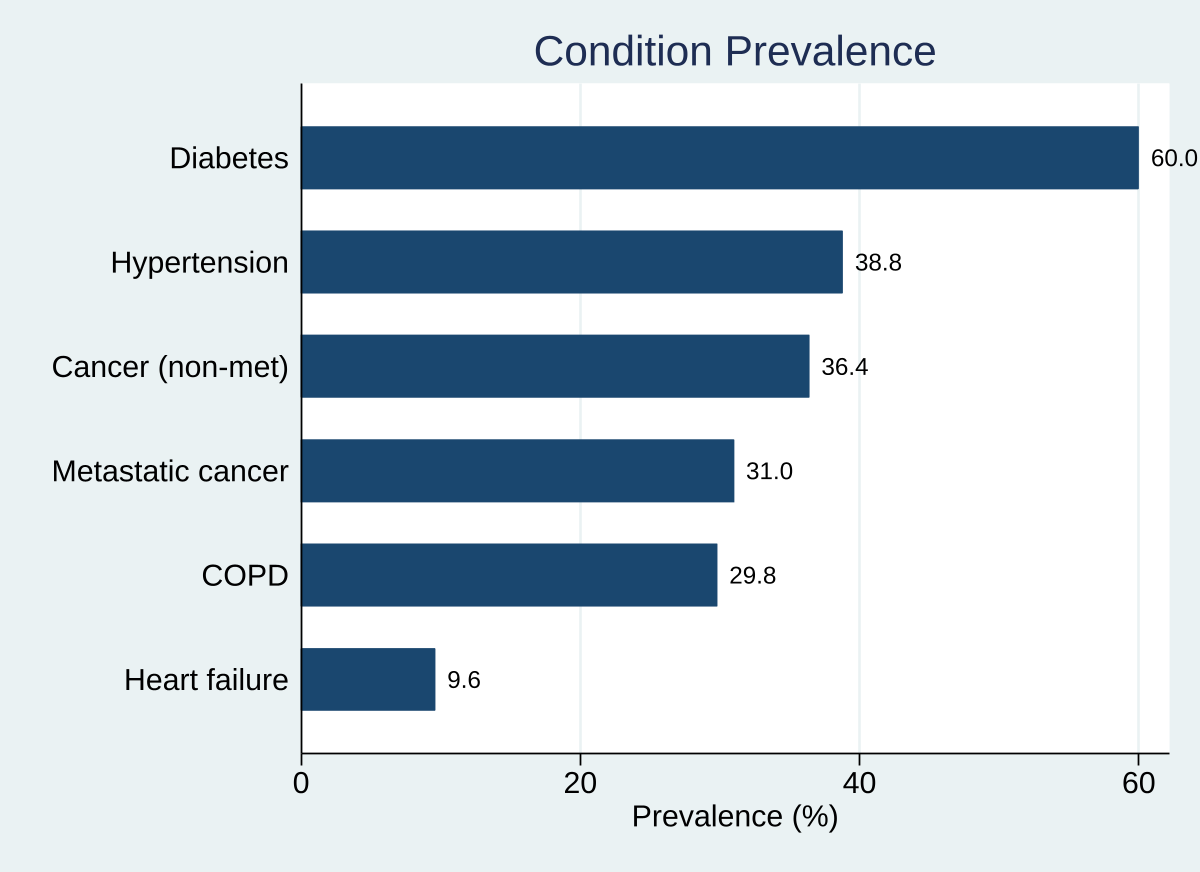
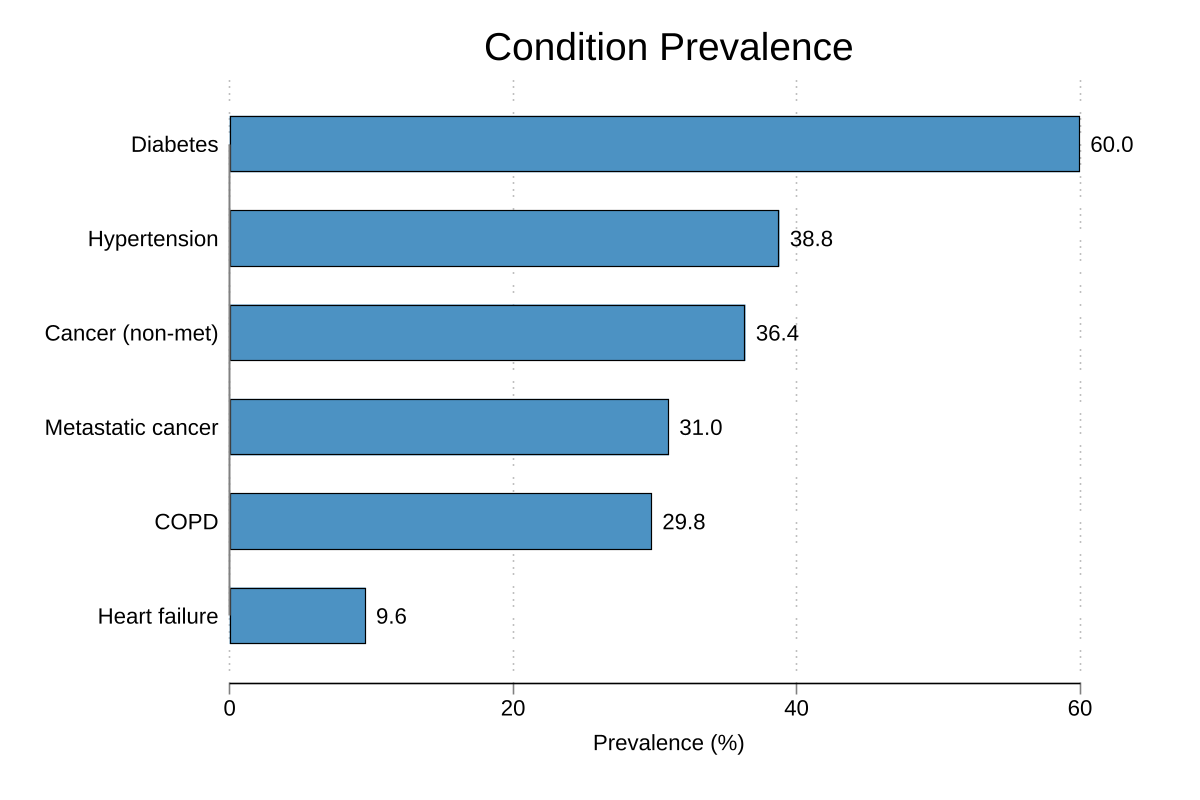
demos: make codescan, compress_tc, gcomp, and tvtools demos run on a clean machine
- compress_tc: install from the checkout instead of running only the main
  ado, so helpers no longer resolve from a stale installed copy
- tvtools: install tvtools and pin white_tableau instead of relying on a
  preinstalled copy and the caller's scheme; README recipe says so
- gcomp: per-run temp PLUS directory so concurrent demos no longer collide;
  refreshes the stale component_models.md
- codescan: resolve tc_schemes before sandboxing and use white_tableau;
  stop clipping the largest bar label

diff --git a/tvtools/README.md b/tvtools/README.md
@@ -300,7 +300,7 @@ tvsplit, id(id) start(start) stop(stop) ///
 
 ## Demo
 
-Regenerate the checked-in figures and console assets by running [demo/demo_tvtools.do](demo/demo_tvtools.do) from a repository checkout; the demo script creates its own synthetic data and is not part of the `net install` payload.
+Regenerate the checked-in figures and console assets by running [demo/demo_tvtools.do](demo/demo_tvtools.do) from a repository checkout; the demo script creates its own synthetic data and is not part of the `net install` payload. It installs `tvtools` (and the `white_tableau` scheme from `tc_schemes`) from the neighbouring checkout directories, so run it from a full Stata-Tools checkout; it leaves those installs in your PLUS directory, and restores your graph scheme at the end.
 
 ```stata
 local demo_dir "/path/to/checked-out/tvtools/demo"

diff --git a/gcomp/demo/component_models.md b/gcomp/demo/component_models.md
@@ -1,7 +1,7 @@
 | Term | Mediator (m) Coef. | Mediator (m) 95% CI | Mediator (m) p | Outcome (y) Coef. | Outcome (y) 95% CI | Outcome (y) p |
 | --- | --- | --- | --- | --- | --- | --- |
-| x | 0.700 | [0.497, 0.903] | <0.001 | 0.335 | [0.103, 0.568] | 0.005 |
+| x | 0.700 | [0.496, 0.904] | <0.001 | 0.335 | [0.103, 0.568] | 0.005 |
 | c | 0.224 | [0.127, 0.322] | <0.001 | 0.172 | [0.064, 0.281] | 0.002 |
-| _cons | -0.074 | [-0.204, 0.056] | 0.263 | 0.089 | [-0.052, 0.229] | 0.216 |
-| m |  |  |  | 0.755 | [0.648, 0.861] | <0.001 |
+| _cons | -0.074 | [-0.204, 0.056] | 0.264 | 0.089 | [-0.052, 0.230] | 0.217 |
+| m |  |  |  | 0.755 | [0.648, 0.862] | <0.001 |
 | N | 400 |  |  | 400 |  |  |
